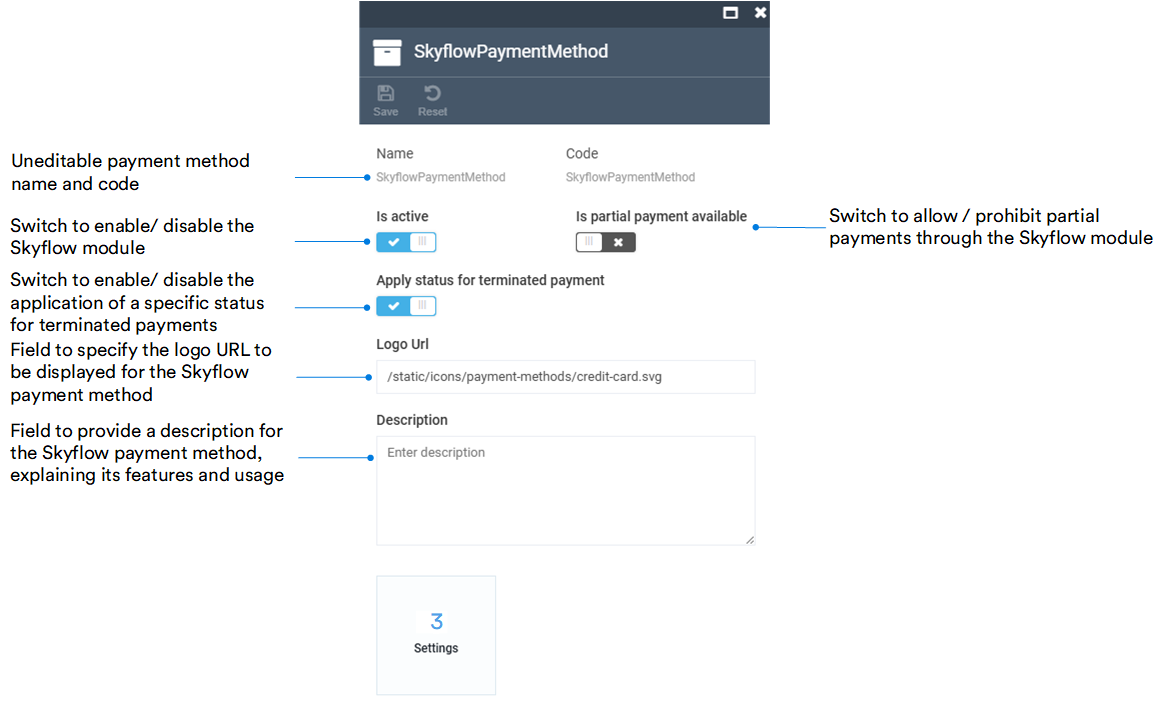
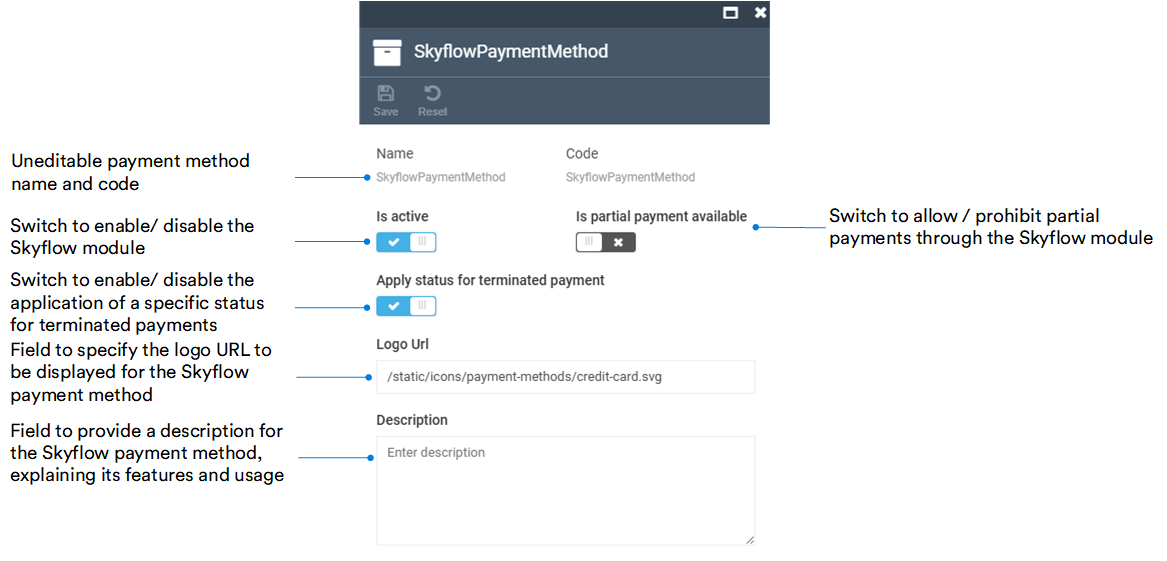
Skyflow module settings updates

diff --git a/platform/user-guide/docs/skyflow/manage-skyflow-module.md b/platform/user-guide/docs/skyflow/manage-skyflow-module.md
@@ -1,13 +1,6 @@
 # Manage Skyflow module
 
-Managing Skyflow module includes:
-
-* [Editing payment method.](manage-skyflow-module.md#edit-payment-method)
-* [Configuring module settings.](manage-skyflow-module.md#configure-settings)
-
-## Edit payment method 
-
-To edit Skyflow payment method:
+To manage the Skyflow payment method:
 
 1. Click **Stores** in the main menu. 
 1. In the next blade, select a store.
@@ -28,16 +21,3 @@ To edit Skyflow payment method:
 
 Your modifications have been saved.
 
-## Configure settings
-
-To configure the Skyflow module settings:
-
-1. Complete steps 1-4 from the instruction above.
-1. In the **Edit payment methods** blade, click on the **Settings** widget.
-1. In the next blade, configure the following settings:
-
-    ![Settings](media/settings.png)
-
-1. Click **OK** to save the changes.
-
-Your modifications have been saved.

diff --git a/platform/developer-guide/docs/Fundamentals/Payments/skyflow.md b/platform/developer-guide/docs/Fundamentals/Payments/skyflow.md
@@ -118,14 +118,10 @@ To setup Virto Commerce back office:
 
 1. In the **Payment methods** blade, select **SkyFlow**.
 1. In the **Edit payment method** blade, activate the Skyflow payment method.
-1. In the same blade, click on the **Settings** widget.
-1. In the next blade, fill in the following properties:
-    * `VaultId` and `VaultUrl`: Retrieve from the settings in Skyflow.
-    * `TableName`: Specify the name of the table for storing Credit Card data.
-
-1. Click **OK** to save the changes.
 
     ![Back office 2](media/configure-backoffice-2.png)
+
+1. Click **Save** in the toolbar to save the changes.
 
 The SkyFlow payment method has been activated for the Store.
 

diff --git a/platform/user-guide/docs/sitemaps/configuring-sitemaps.md b/platform/user-guide/docs/sitemaps/configuring-sitemaps.md
@@ -2,9 +2,10 @@
 
 Managing sitemaps includes:
 
-* [Adding new sitemaps to stores](configuring-sitemaps.md#add-new-sitemap-to-store)
-* [Adding sitemaps items](configuring-sitemaps.md#add-sitemap-items)
-* [Downloading sitemaps](configuring-sitemaps.md#download-sitemaps)
+* [Adding new sitemaps to stores](#add-new-sitemap-to-store)
+* [Adding sitemaps items](#add-sitemap-items)
+* [Downloading sitemaps](#download-sitemaps)
+* [Exporting sitemaps to the store assets](#export-sitemaps-to-store-assets)
 
 To manage the store sitemaps:
 
